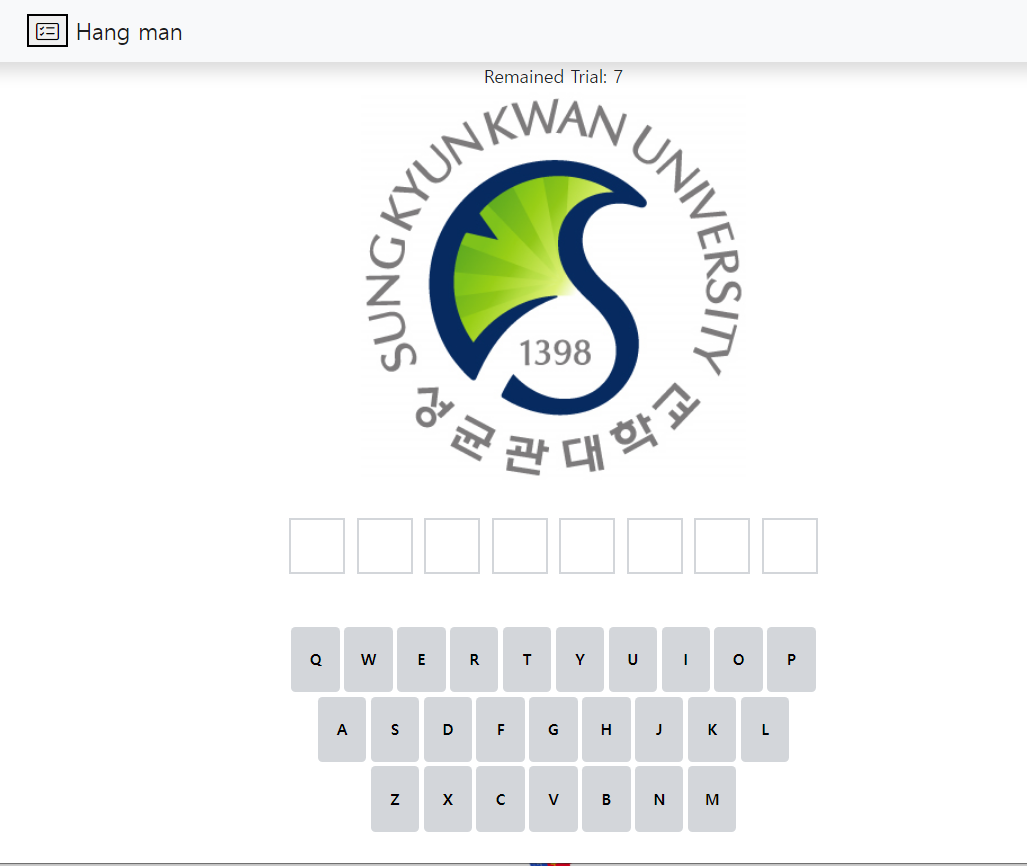
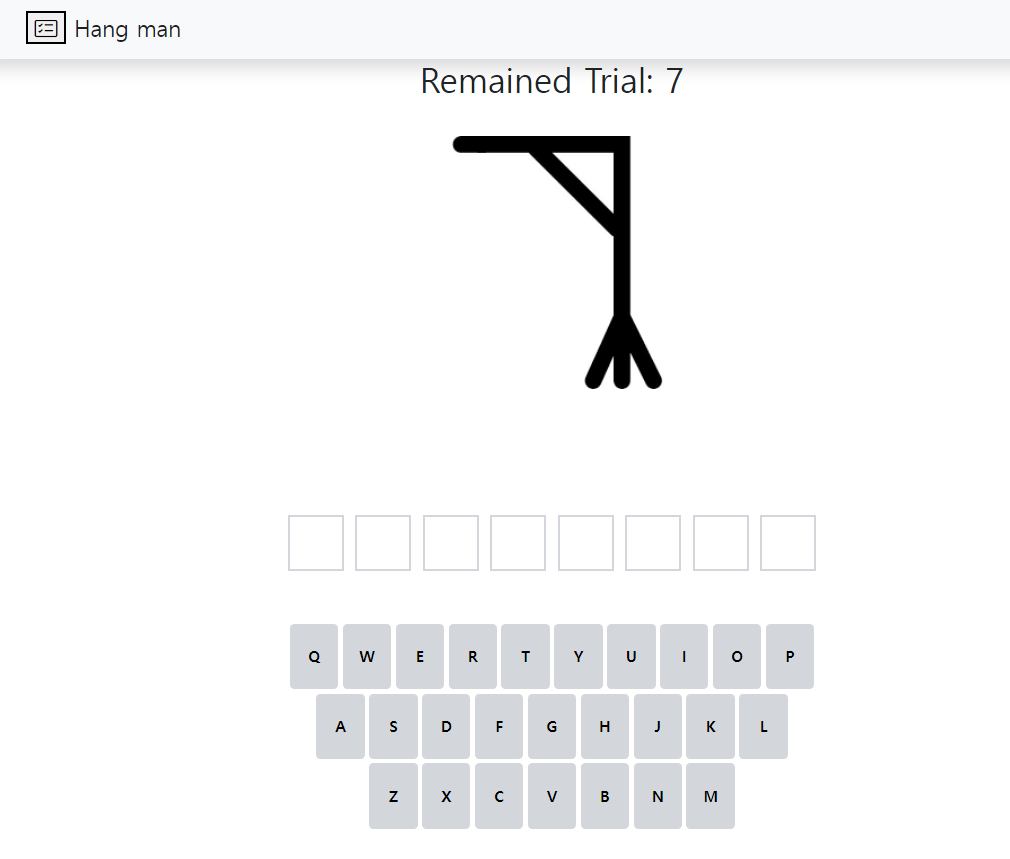
Edit README.md by modifying hangman_img

diff --git a/README.md b/README.md
@@ -13,7 +13,7 @@
 ---
 ## Navigation
 
-- [Thumbnail will be added](#thumbnail-will-be-added)
+- [Thumbnail](#thumbnail)
 - [Navigation](#navigation)
 - [OSSP TEAM 3 MEMBER](#ossp-team-3-member)
 - [Introduction](#introduction)
@@ -58,7 +58,8 @@ The word will be randomly selected from parsed.json made by web crawling.
 ---
 ## In Game
 
-By setting the target word from Main Menu, game will start.
+By setting the target word from Main Menu, game will start.  
+And an empty guillotine appears on the main screen.
 
 <p align='center'>
 <img src='./img/readme_img/in_game_1.png' style='width:400px;'></p>
@@ -70,7 +71,8 @@ If the user chooses the letter that is included in the word, The letter is fille
 
 Conversely, if you choose a letter that is not included in a word,  
 the opportunity decreases and the key of the wrong word turns red and user cannot choose.  
-And the image on the masked word begins to diminish.
+And a picture is added to the guillotine.
+
 
 <p align='center'>
 <img src='./img/readme_img/in_game_3.png' style='width:400px;'></p>
@@ -81,7 +83,7 @@ the game ends with the user's victory.
 <p align='center'>
 <img src='./img/readme_img/in_game_4.png' style='width:400px;'></p>
 
-Conversely, if a word is not found within the number of attempts, the picture disappears and the user loses.
+Conversely, if a word is not found within the number of attempts, the hang-man is made and the user loses.
 
 <p align='center'>
 <img src='./img/readme_img/in_game_5.png' style='width:400px;'></p>
